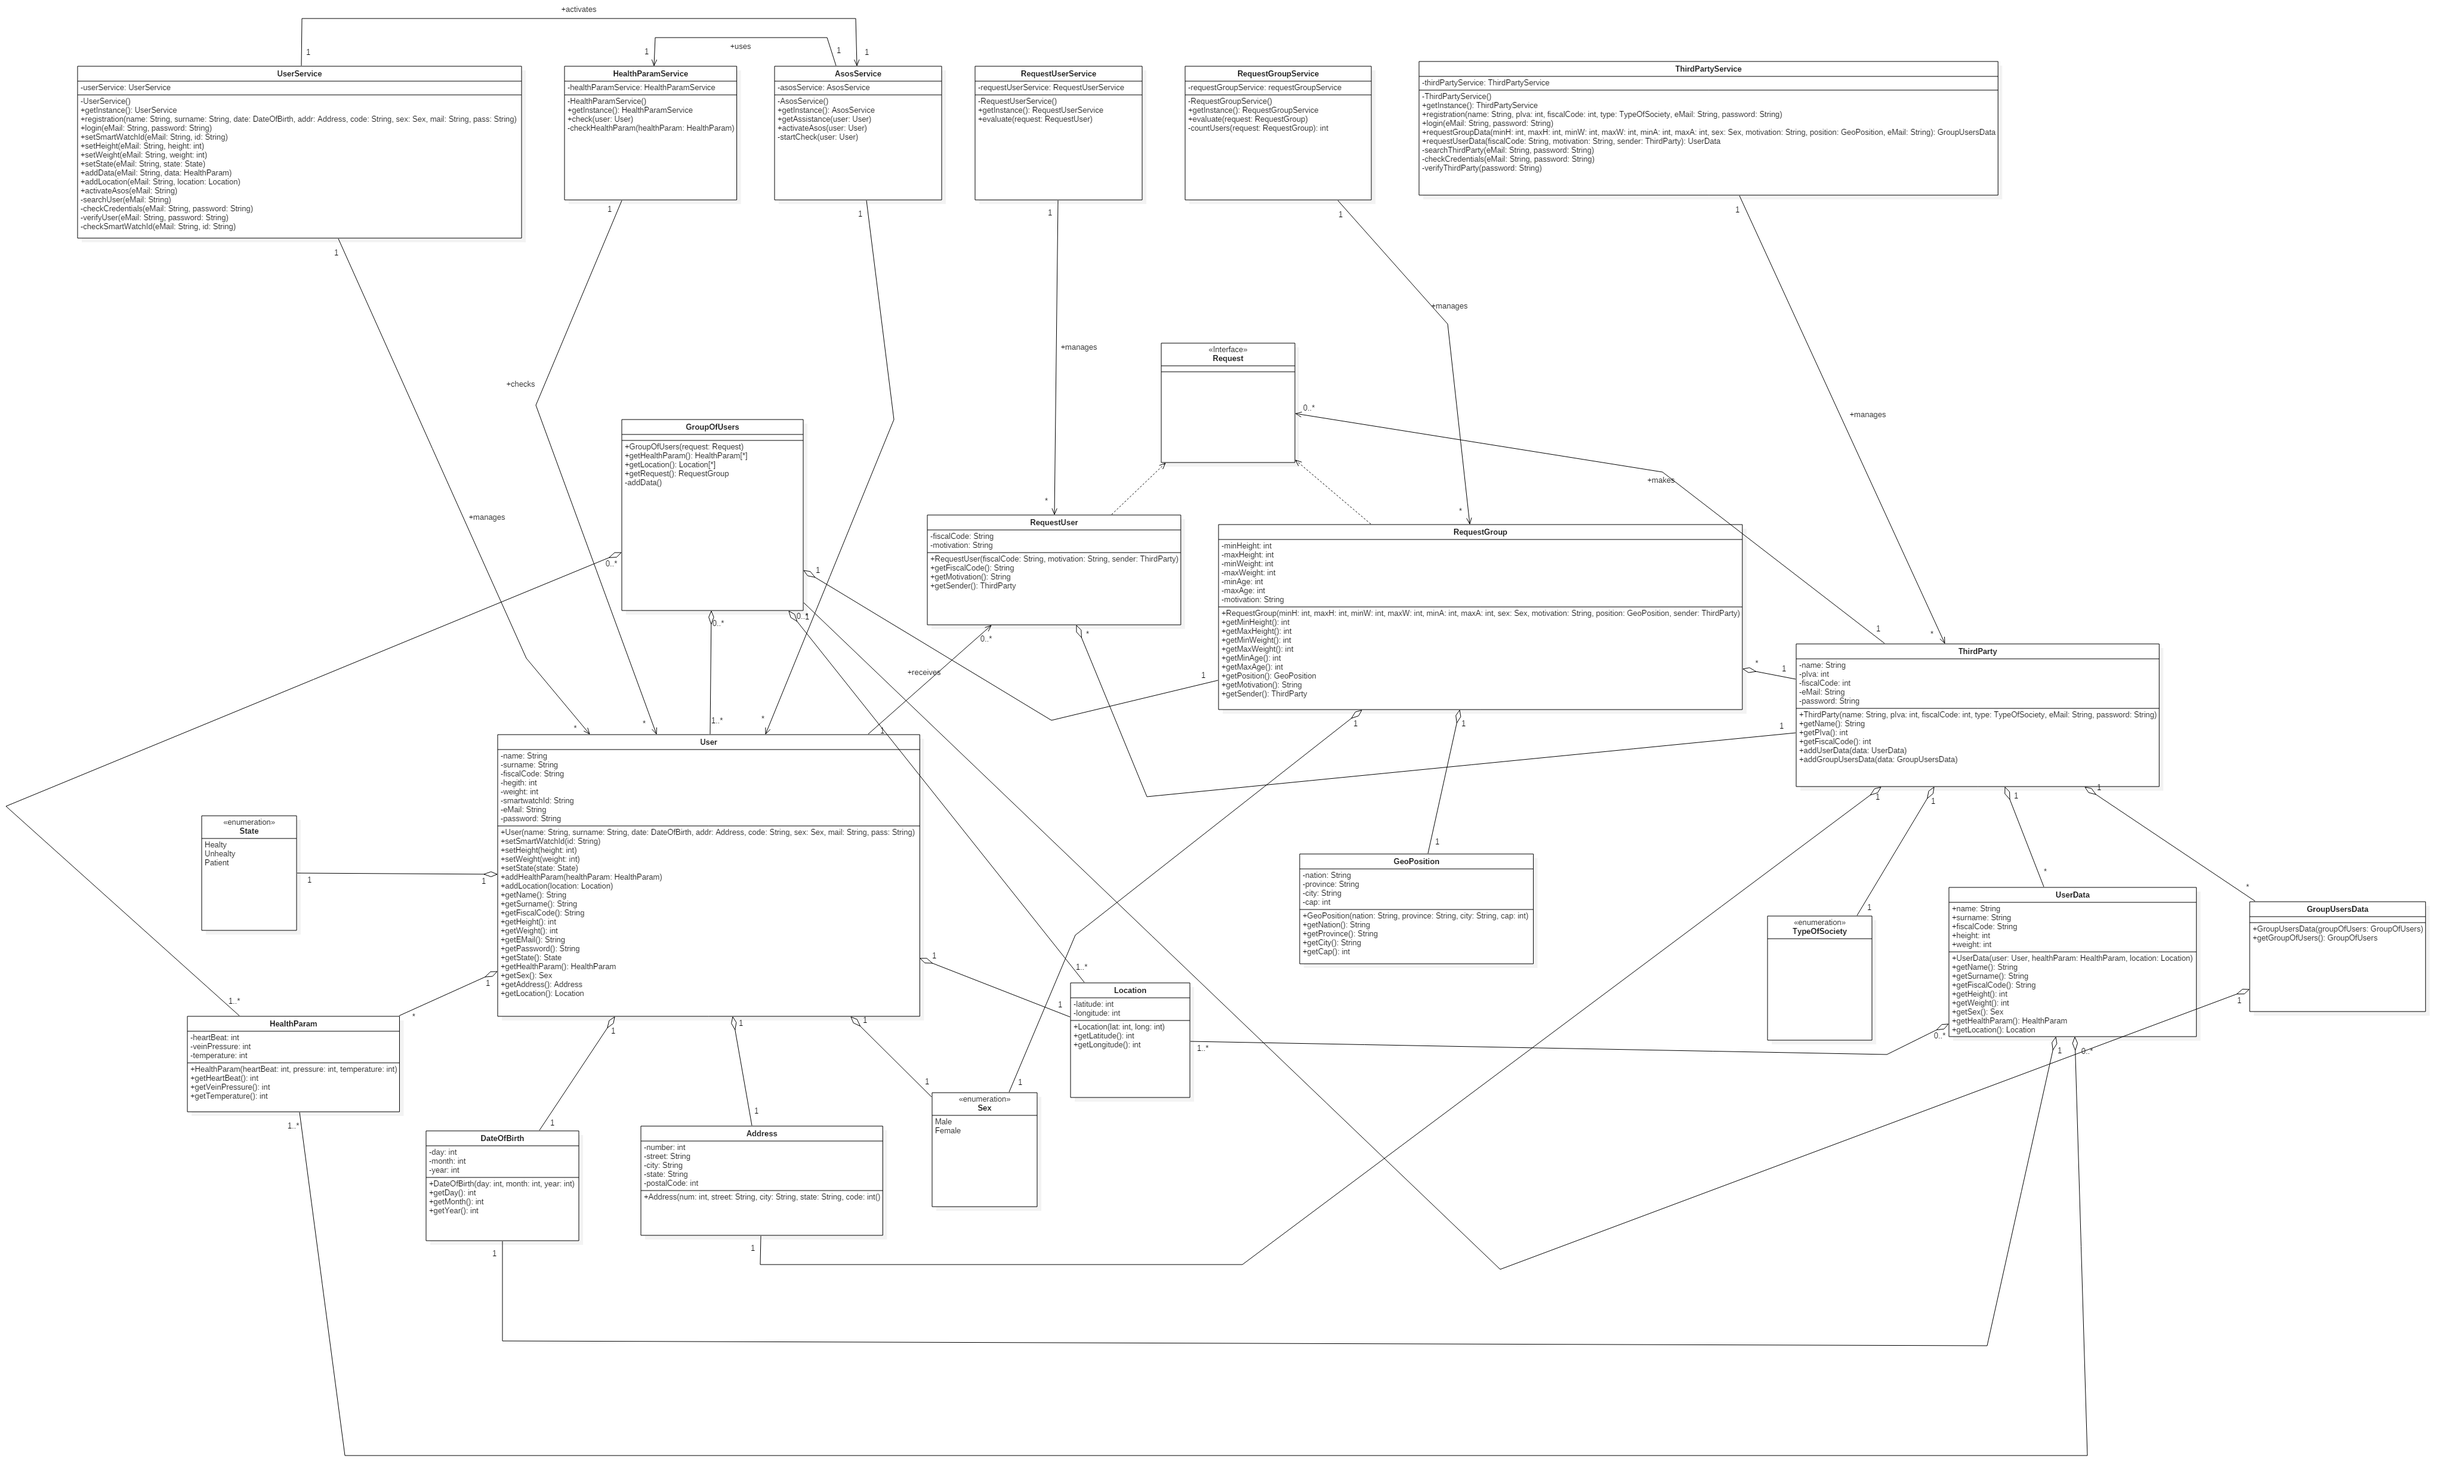
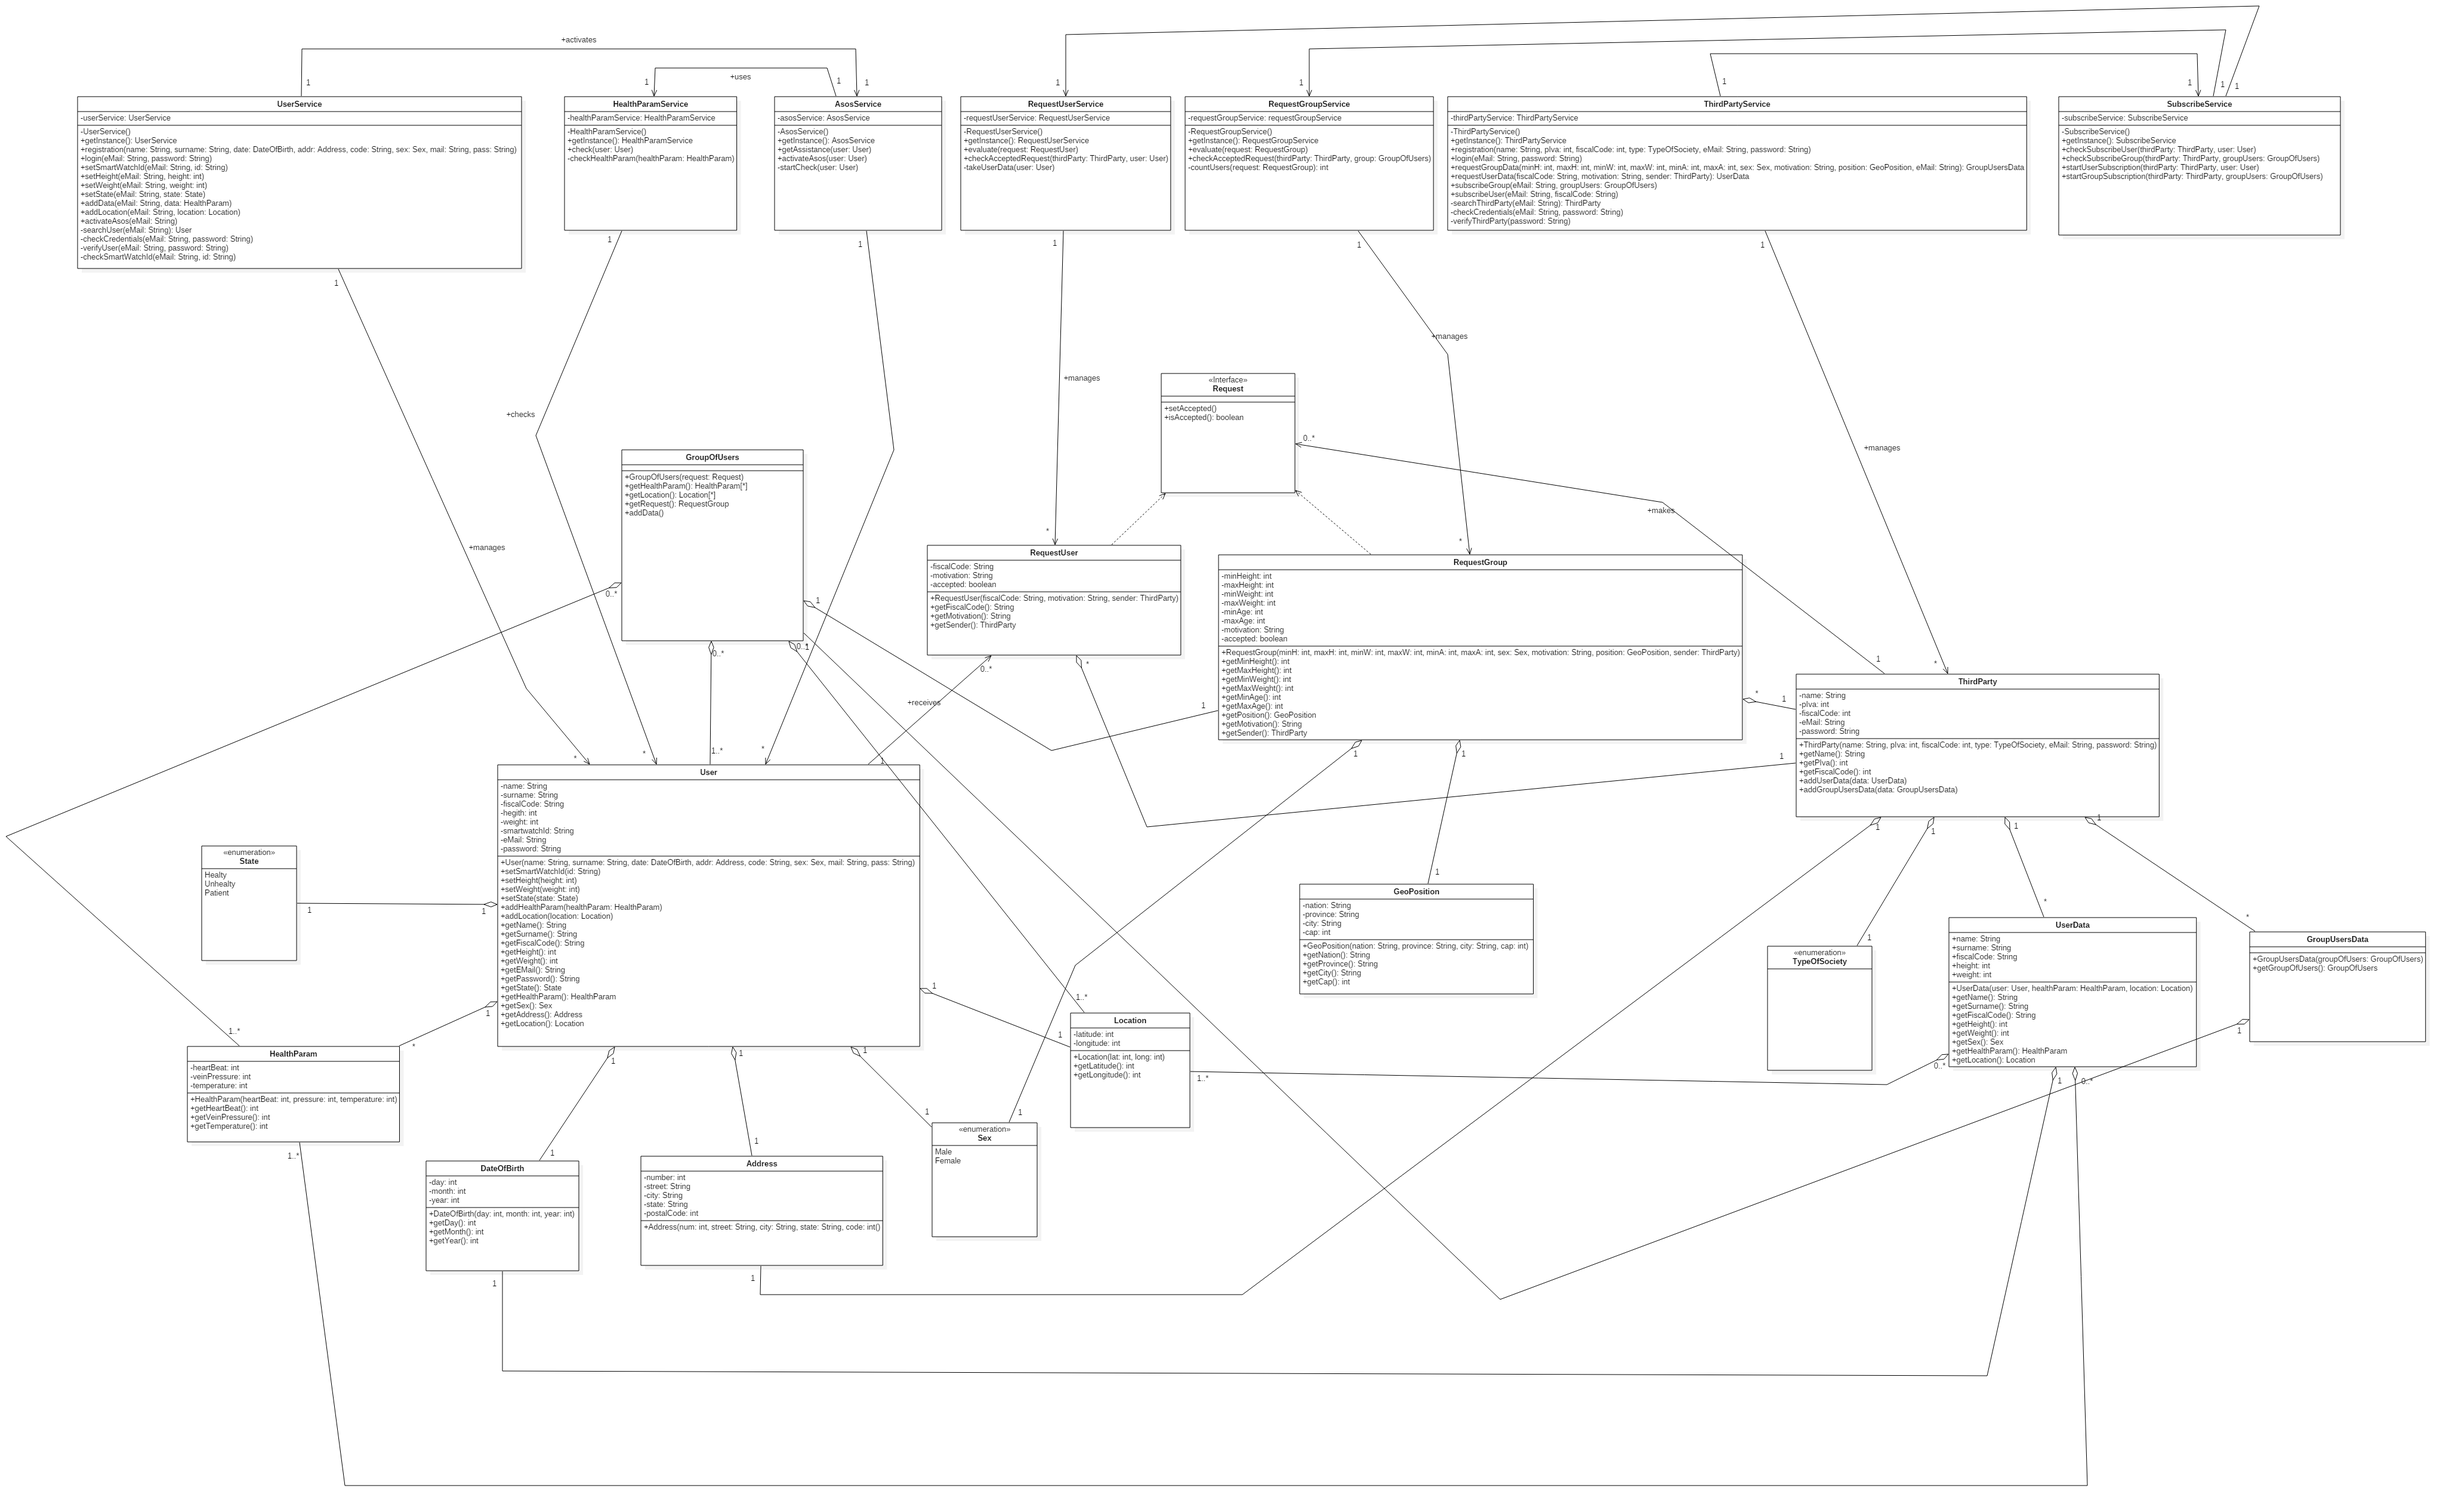
seqeunce diagrams added, class diagram updated

diff --git a/DD/Architectural_Design/runtime_view.tex b/DD/Architectural_Design/runtime_view.tex
@@ -26,7 +26,31 @@ Note that the processes of registration and login are analyzed only for users bu
 \FloatBarrier 
 
 \begin{figure}[h!]
+	\includegraphics[width=1.0\textwidth]{./pictures/sequence_userRequest.png}\par
+	\caption{Sequence diagram about requesting data about a user.}
+\end{figure}
+\FloatBarrier 
+
+\begin{figure}[h!]
 	\includegraphics[width=1.0\textwidth]{./pictures/sequence_groupRequest.png}\par
 	\caption{Sequence diagram about requesting data about a group of users.}
+\end{figure}
+\FloatBarrier 
+
+\begin{figure}[h!]
+	\includegraphics[width=1.0\textwidth]{./pictures/sequence_userSubscribe.png}\par
+	\caption{Sequence diagram about subscribing to a user data.}
+\end{figure}
+\FloatBarrier 
+
+\begin{figure}[h!]
+	\includegraphics[width=1.0\textwidth]{./pictures/sequence_groupSubscribe.png}\par
+	\caption{Sequence diagram about subscribing to a users group data.}
+\end{figure}
+\FloatBarrier 
+
+\begin{figure}[h!]
+	\includegraphics[width=1.0\textwidth]{./pictures/sequence_useAsos.png}\par
+	\caption{Sequence diagram about ASOS requesting for assistance for a user.}
 \end{figure}
 \FloatBarrier 
